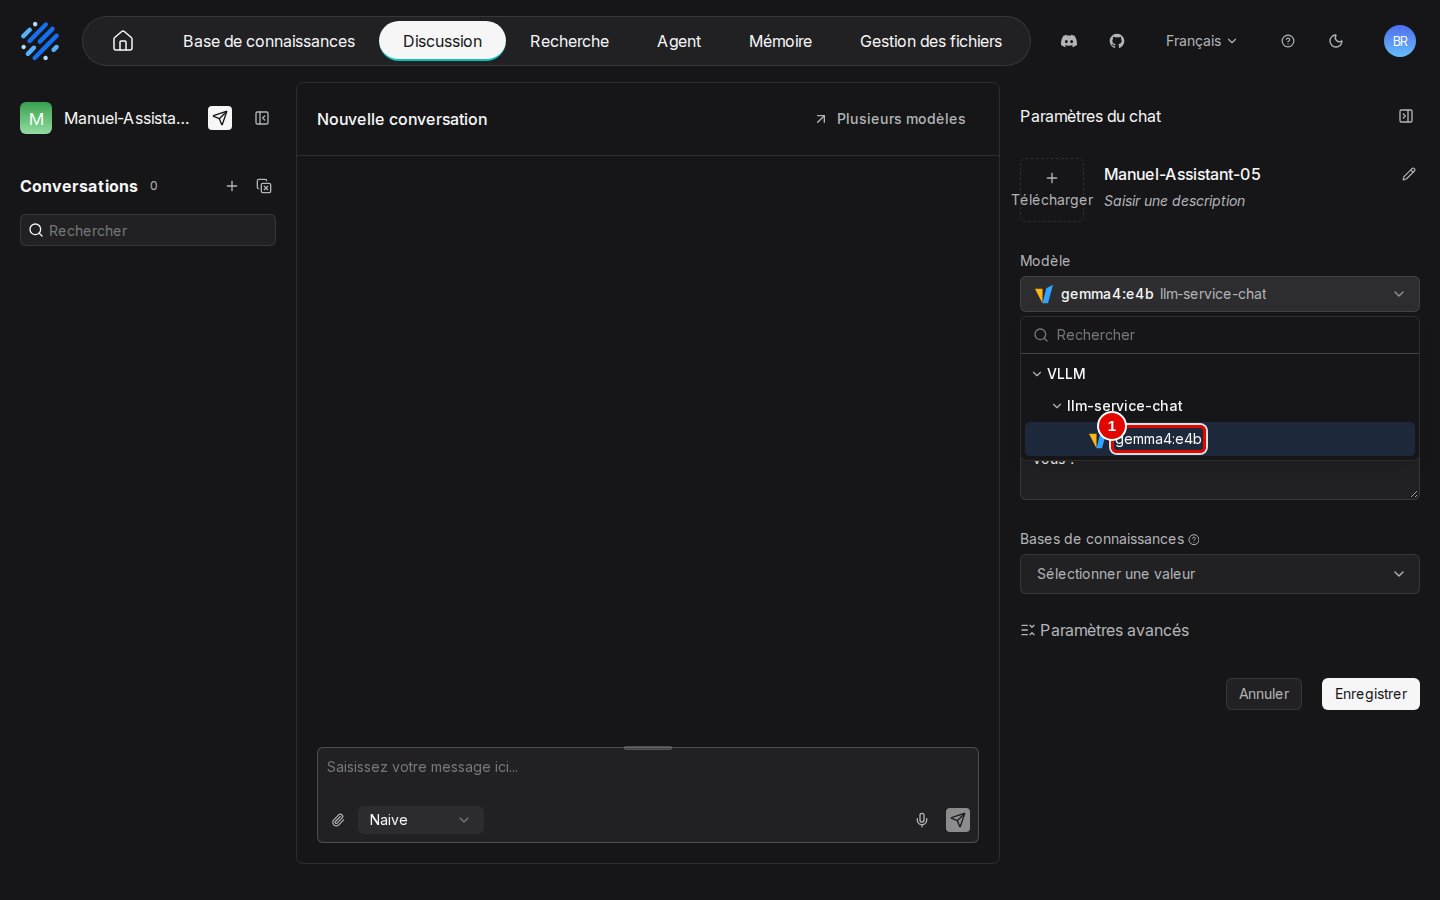
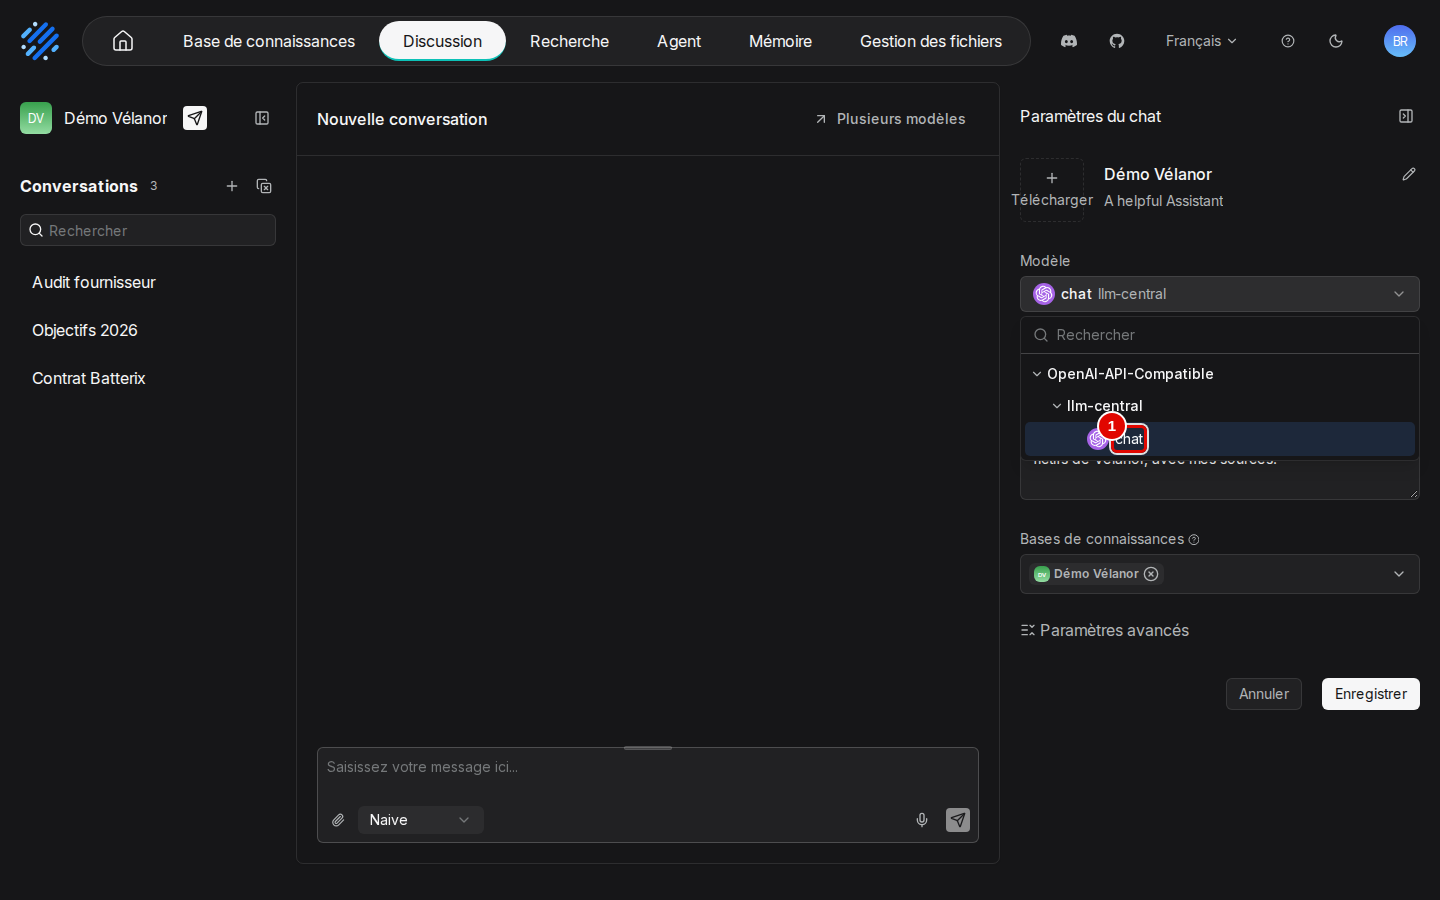
RAGFlow : manuel 08, choix du reranker dans l'assistant (étape 12) et conseil d'usage, modèle chat ; renvois des manuels 03 et 14

diff --git a/docs/ragflow/manuel/08-regler-un-assistant.md b/docs/ragflow/manuel/08-regler-un-assistant.md
@@ -8,7 +8,7 @@
 
 Un assistant fait deux choses : il **cherche** les passages proches de la question, puis il les donne au **modèle** qui rédige. Les réglages agissent sur l'une ou l'autre. Les plus importants sont ceux de la recherche : combien de passages transmettre au modèle (« Top N »), et quelle part donner à la recherche par les mots et à la recherche par le sens (« Poids de similarité par mots-clés »). Par défaut, RAGFlow donne 70 % du poids aux mots. Or un document scanné contient souvent des mots mal lus (« Volumeminimalannuel ») que la recherche par les mots ne reconnaît pas ; la recherche par le sens, elle, s'en accommode mieux.
 
-**Réglages conseillés** : donner 70 % du poids à la recherche par le sens, c'est-à-dire régler « Poids de similarité par mots-clés » sur 0,3, et transmettre 8 passages au modèle (« Top N » sur 8). Un assistant créé à la souris a déjà « Top N » à 8 : **seul le poids des mots-clés est à changer** (0,7 à la création). Un assistant créé par un programme part de « Top N » 6, à porter à 8. Pendant les essais, ce réglage a fait passer l'assistant de 33 à 34 bonnes réponses sur 34, sans ralentissement sensible ; la question gagnée croisait un contrat scanné et un tableur.
+**Réglages conseillés** : donner 70 % du poids à la recherche par le sens, c'est-à-dire régler « Poids de similarité par mots-clés » sur 0,3, et transmettre 8 passages au modèle (« Top N » sur 8). Un assistant créé à la souris a déjà « Top N » à 8 : **seul le poids des mots-clés est à changer** (0,7 à la création). Un assistant créé par un programme part de « Top N » 6, à porter à 8. Pendant les essais, ce réglage a fait passer l'assistant de 33 à 34 bonnes réponses sur 34, sans ralentissement sensible, avec l'ancien comme avec le nouveau modèle de réponse ; la question gagnée croisait un contrat scanné et un tableur.
 
 ## Ouvrir le panneau et régler l'identité de l'assistant
 
@@ -32,14 +32,14 @@ Le haut du panneau règle l'apparence de l'assistant : image (pastille 1), nom (
 
 **Étape 2. Choisir le modèle**
 *Où* : panneau « Paramètres du chat » › liste « Modèle ».
-Cliquer sur la liste « Modèle » (capture de l'étape 1, pastille 4). Elle propose les modèles de chat déclarés au chapitre 03, groupés par fournisseur et instance ; dans les essais, un seul : `gemma4:e4b` (pastille 1).
+Cliquer sur la liste « Modèle » (capture de l'étape 1, pastille 4). Elle propose les modèles de chat déclarés au chapitre 03, groupés par fournisseur et instance ; sur la machine d'essai, un seul : `chat` (pastille 1).
 
 ![Choix du modèle](../img/05-assistants-et-citations/06-choix-du-modele.png)
 *Écran : panneau « Paramètres du chat », liste « Modèle » ouverte.*
 
 | N° | Élément | Rôle |
 |---|---|---|
-| 1 | `gemma4:e4b` | modèle de chat de l'instance « llm-service-chat », fournisseur « VLLM » |
+| 1 | `chat` | modèle de chat de l'instance « llm-central », fournisseur « OpenAI-API-Compatible » |
 
 *Résultat* : le modèle choisi rédigera les réponses de cet assistant.
 
@@ -124,7 +124,7 @@ Garder « Afficher la citation » activé (pastille 1) : c'est ce qui affiche le
 | 3 | « Web search provider » | ajoute une recherche sur Internet (étape 8) |
 | 4 | « Métadonnées » | filtre les documents interrogés selon leurs métadonnées (étape 9) |
 | 5 | « Naive » | réglages du mode de réponse directe (étapes 10 à 12) |
-| 6 | « Agentic » | réglages du mode agentique (étape 13) |
+| 6 | « Agentic » | réglages du mode agentique (étape 14) |
 
 *Résultat* : les options avancées sont visibles.
 
@@ -187,12 +187,28 @@ Régler « Poids de similarité par mots-clés » (pastille 2) sur 0,3, ce qui d
 | 2 | « Poids de similarité par mots-clés » | part de la recherche par les mots (« full-text ») ; le reste va à la recherche par le sens (« vector ») ; 0,7 à la création |
 | 3 | « Rerank candidates » | nombre de passages soumis au second tri, s'il existe ; 64 à la création |
 | 4 | « Top N » | nombre de passages donnés au modèle ; plus de passages, plus de contexte, mais plus de texte à lire ; 8 à la création |
-| 5 | « Modèle de réordonnancement » | modèle de second tri des passages ; vide, aucun n'étant installé |
+| 5 | « Modèle de réordonnancement » | modèle de second tri des passages (étape suivante) ; vide sur la capture |
 | 6 | « Recherche inter-langues » | traduit la question dans les langues choisies avant de chercher, pour des documents en plusieurs langues |
 
 *Résultat* : la recherche est réglée comme conseillé. Baisser le seuil fait entrer plus de passages, au risque de passages hors sujet ; le monter rend l'assistant plus prompt à refuser.
 
-**Étape 12. Régler la fin de la partie « Naive »**
+**Étape 12. Choisir un reranker (facultatif)**
+*Où* : « Paramètres avancés » › « Naive » › « Modèle de réordonnancement ».
+Un **reranker** relit chaque passage trouvé à côté de la question et lui donne une note plus fine, avant que les « Top N » meilleurs soient transmis au modèle. Ouvrir la liste sous « Modèle de réordonnancement » (pastille 1) : elle ne propose que les modèles de type « Rerank » déclarés au chapitre 03 (pastille 2). Cliquer sur `rerank` (pastille 3). « Rerank candidates » (pastille 4) fixe le nombre de passages soumis au reranker ; 64 convient. Pour revenir en arrière, la croix à droite du choix le vide. Le choix ne vaut qu'après « Enregistrer » (étape 15). La capture montre la liste ouverte sur l'assistant « Démo Vélanor », refermée sans rien changer.
+
+![Modèle de réordonnancement](../img/05-assistants-et-citations/17-modele-de-reordonnancement.png)
+*Écran : « Paramètres avancés », partie « Naive », liste « Modèle de réordonnancement » ouverte.*
+
+| N° | Élément | Rôle |
+|---|---|---|
+| 1 | « Modèle de réordonnancement » | modèle de second tri des passages ; vide, aucun second tri |
+| 2 | liste « OpenAI-API-Compatible », « llm-central » | rerankers disponibles, avec un champ « Rechercher » |
+| 3 | `rerank` | reranker du service de modèles central |
+| 4 | « Rerank candidates » | nombre de passages, parmi les mieux classés par la recherche, que le reranker relit |
+
+*Résultat* : l'assistant reclasse les passages avec le reranker à chaque question. Sur la machine d'essai, avec les réglages d'origine, le reranker a fait passer l'assistant de 33 à 34 bonnes réponses sur 34, comme le réglage conseillé de l'étape 11 ; ajouté à ce réglage, il n'a rien changé et a allongé chaque réponse d'une demi-seconde à une seconde.
+
+**Étape 13. Régler la fin de la partie « Naive »**
 *Où* : « Paramètres avancés » › « Naive », bas de la partie.
 Descendre sous « Recherche inter-langues ».
 
@@ -207,7 +223,7 @@ Descendre sous « Recherche inter-langues ».
 
 *Résultat* : garder ces réglages tels quels pour un usage courant.
 
-**Étape 13. Régler le mode « Agentic »**
+**Étape 14. Régler le mode « Agentic »**
 *Où* : « Paramètres avancés » › « Agentic ».
 Déplier « Agentic » (capture de l'étape 7, pastille 6).
 
@@ -222,7 +238,7 @@ Déplier « Agentic » (capture de l'étape 7, pastille 6).
 
 *Résultat* : ces réglages ne servent que pour les questions posées en mode « Agentic » (chapitre 07).
 
-**Étape 14. Enregistrer**
+**Étape 15. Enregistrer**
 *Où* : panneau « Paramètres du chat », bas du panneau › « Enregistrer ».
 Cliquer sur « Enregistrer » (pastille 2) ; « Annuler » (pastille 1) abandonne les modifications.
 
@@ -240,7 +256,7 @@ Cliquer sur « Enregistrer » (pastille 2) ; « Annuler » (pastille 1) abandonn
 
 Le « Test de récupération » d'une base montre quels passages une question retrouve, avec quels scores, sans faire rédiger de réponse. Il sert à comprendre un refus ou à essayer un réglage avant de le reporter dans l'assistant. Ses réglages ne sont pas enregistrés.
 
-**Étape 15. Lancer un test**
+**Étape 16. Lancer un test**
 *Où* : barre du haut › « Base de connaissances » › base ouverte › menu de gauche › « Test de récupération ».
 Les réglages, à gauche, sont ceux de l'étape 11, plus un filtre par métadonnées ; « Top N » y vaut 10 par défaut. Saisir la question (pastille 1), puis cliquer sur « Test » (pastille 2).
 
@@ -257,7 +273,7 @@ Les réglages, à gauche, sont ceux de l'étape 11, plus un filtre par métadonn
 
 *Résultat* : avec les réglages d'origine, la question du délai de livraison de Batterix retrouve 25 passages ; le premier, le tableau des fournisseurs, obtient 42,50 sur 100.
 
-**Étape 16. Comparer avec les réglages conseillés**
+**Étape 17. Comparer avec les réglages conseillés**
 *Où* : même page › « Poids de similarité par mots-clés ».
 Porter le poids des mots-clés à 0,3 (pastille 1 : full-text 0,30, vector 0,70), puis cliquer de nouveau sur « Test ».
 
@@ -276,7 +292,8 @@ Porter le poids des mots-clés à 0,3 (pastille 1 : full-text 0,30, vector 0,70)
 
 - Valeurs à la création d'un assistant à la souris : seuil 20, poids des mots-clés 0,7, « Top N » 8. Un assistant créé par programme reçoit d'autres valeurs (« Top N » 6, seuil 10).
 - Transmettre 8 passages au lieu de 6 allonge à peine la réponse : moins d'un dixième de seconde avec une carte graphique.
-- RAGFlow ne fournit pas de modèle de second tri (« rerank ») ; « Modèle de réordonnancement » reste vide tant qu'un tel service n'est pas installé à part.
+- RAGFlow ne fournit pas de modèle de second tri (« rerank ») : il en faut un sur le serveur de modèles, déclaré au chapitre 03 ; le service central de la machine d'essai en sert un, `rerank`. Sur une petite base comme celle des essais, les réglages conseillés (étape 11) suffisent et le reranker n'apporte rien ; il vaut d'être essayé sur une grande base, où beaucoup de passages se ressemblent, ou quand les réglages d'origine doivent être gardés.
+- Avec le modèle `chat` du service central, une réponse prend environ 8 secondes en médiane, et jusqu'à une minute pour les questions les plus longues : le modèle réfléchit avant de répondre. Le réglage « Thinking » (étape 5) est prévu pour la couper ; son effet avec ce service n'a pas été essayé.
 - Après un changement de réglage, rejouer quelques questions connues : c'est le moyen le plus sûr de vérifier l'effet. L'annexe [A1. Évaluation : qualité et performances](../annexes/A1-evaluation-qualite-et-performances.md) détaille la méthode et les résultats des essais.
 
 ## En cas de problème
@@ -292,4 +309,4 @@ Porter le poids des mots-clés à 0,3 (pastille 1 : full-text 0,30, vector 0,70)
 Les autres problèmes sont traités au chapitre [15. En cas de problème](15-en-cas-de-probleme.md).
 
 ---
-*Version décrite : RAGFlow v1.0.0, essais des 9 et 11 novembre 2026. Détails et preuves : [rapport d'essais](../annexes/A6-rapport-d-essais.md).*
+*Version décrite : RAGFlow v1.0.0, essais des 9, 11 et 12 novembre 2026. Détails et preuves : [rapport d'essais](../annexes/A6-rapport-d-essais.md).*

diff --git a/docs/ragflow/manuel/14-cas-pratiques.md b/docs/ragflow/manuel/14-cas-pratiques.md
@@ -27,7 +27,7 @@ Un cas pratique enchaîne des tâches déjà décrites une à une dans les chapi
 3. Contrôler le document scanné : lire ses passages et corriger ce qui a été mal lu (chapitre 06, étapes 16 à 25).
 4. Créer l'assistant et le relier à la base (chapitre 04, étapes 10 à 16).
 5. Appliquer les réglages conseillés : « Top N » 8 et 0,7 pour la recherche par le sens (chapitre 08, étape 11) ; écrire le message d'accueil et la « Réponse vide » en français (chapitre 08, étapes 1 et 10).
-6. Vérifier la recherche sans le modèle avec le « Test de récupération » (chapitre 08, étapes 15 et 16).
+6. Vérifier la recherche sans le modèle avec le « Test de récupération » (chapitre 08, étapes 16 et 17).
 7. Poser une question par sujet, chacune dans sa conversation, et vérifier chaque source (chapitre 07, étapes 3 à 6).
 8. Si besoin, publier l'assistant dans une page de l'intranet (chapitre 07, étape 17).
 

diff --git a/docs/ragflow/manuel/03-premiers-pas.md b/docs/ragflow/manuel/03-premiers-pas.md
@@ -310,7 +310,7 @@ Cliquer sur le bouton, puis choisir un modèle pour chaque usage (étape suivant
 | 2 | « Modèle d'embedding » | traduit le sens des passages et des questions en nombres pour la recherche (`embed`) ; indispensable aux bases |
 | 3 | « Modèle Img2txt » | décrit les images (vide ici) |
 | 4 | « Modèle Speech2txt » | transcrit l'audio (`transcribe`) |
-| 5 | « Modèle de rerank » | trie une seconde fois les passages trouvés (`rerank`) ; proposé d'office aux nouveaux assistants et à la recherche |
+| 5 | « Modèle de rerank » | trie une seconde fois les passages trouvés (`rerank`) ; un assistant ne s'en sert que si son « Modèle de réordonnancement » est rempli (chapitre 08) |
 | 6 | « Modèle TTS » | lit les réponses à voix haute (vide ici) ; la ligne suivante, « Decision model », reste vide aussi |
 
 *Résultat* : la fenêtre montre les choix actuels.
